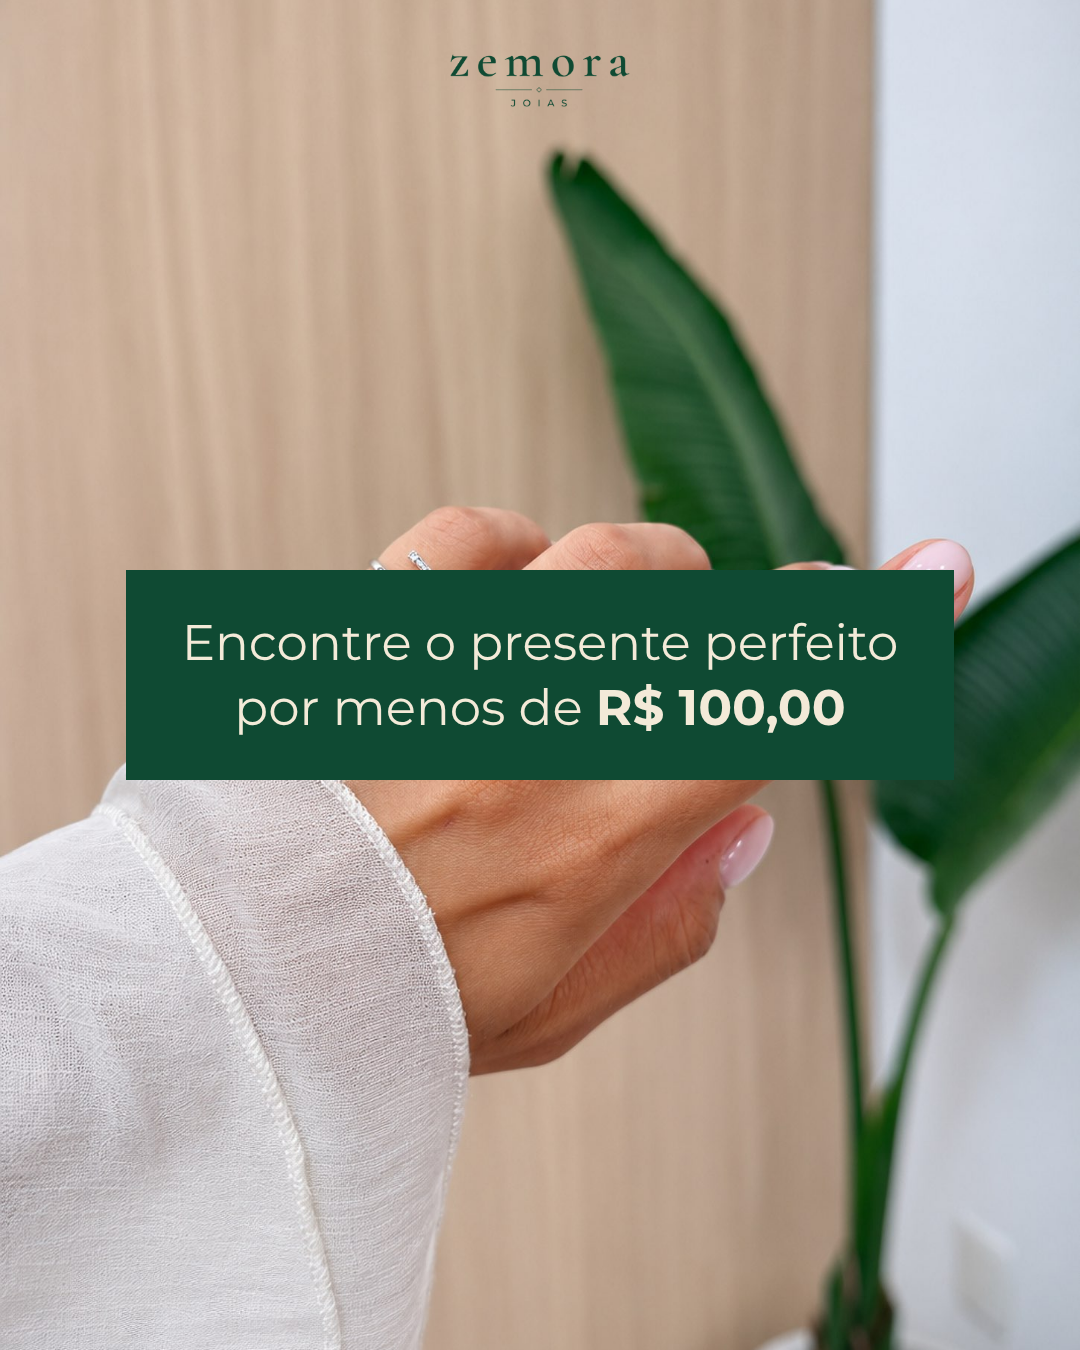
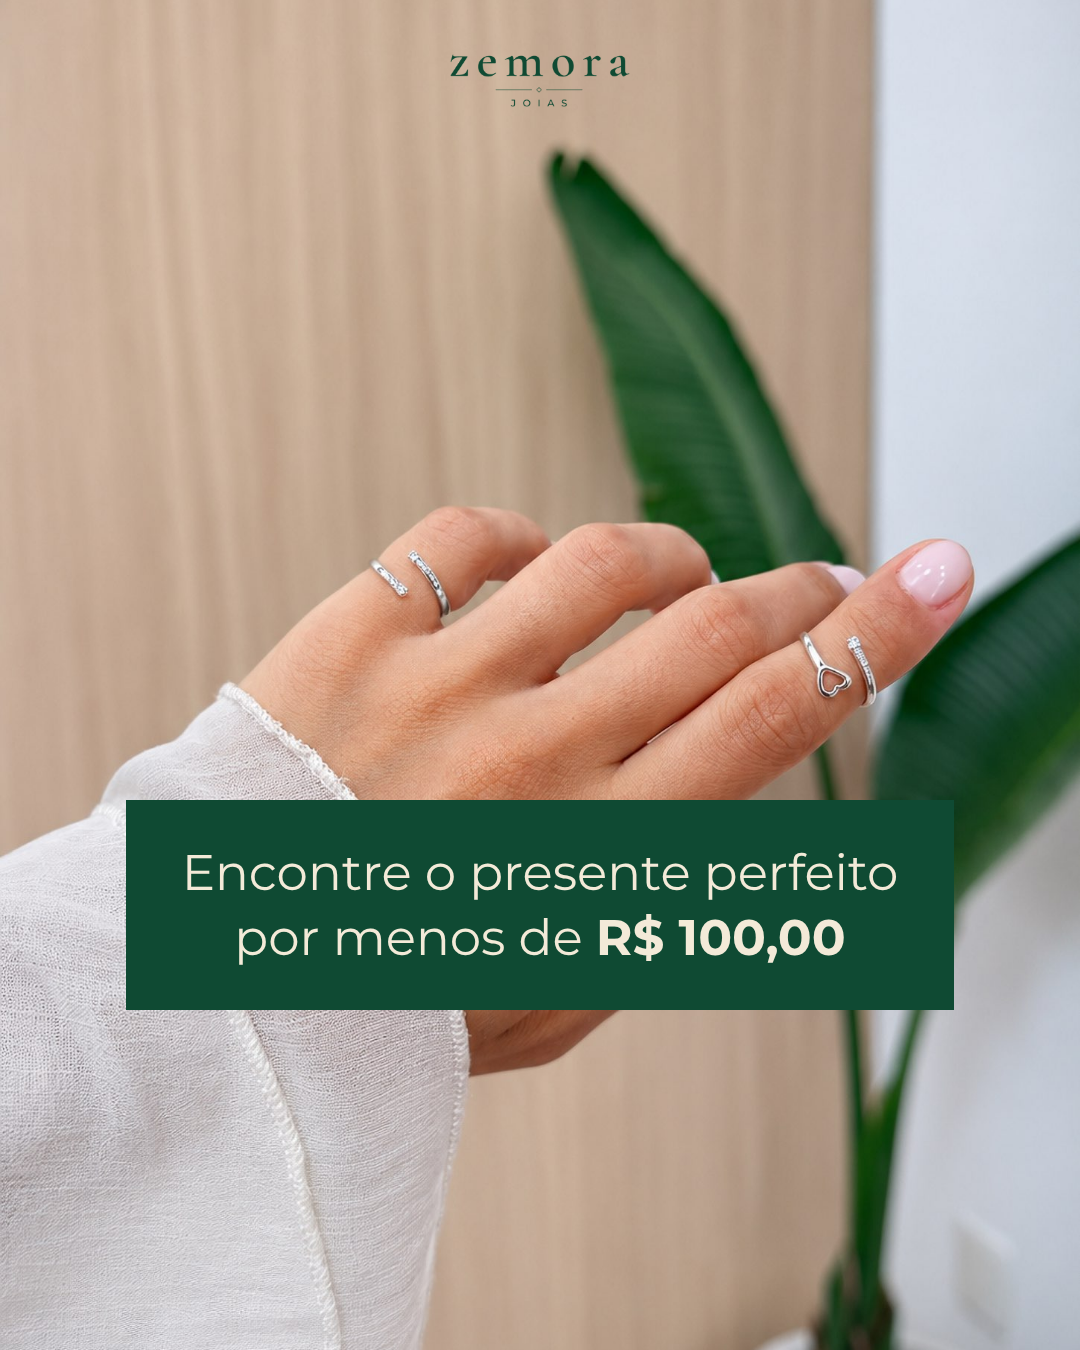
Carrossel de preços: texto da capa mais baixo
Claude-Session: https://claude.ai/code/session_01Ds4o6DPNY229NefAqtX4RB

Changed region(s): [[0.0917, 0.4044, 0.8861, 0.7467]]

diff --git a/cards/render-carrossel.js b/cards/render-carrossel.js
@@ -22,7 +22,7 @@ const sets={dp:[
  {n:5,logo:'logo-zemora-verde.png',foto:'bf6-arvore-pescoco.jpg',pos:'50% 100%',v:'bottom:80px',ts:0,body:`<div class="kick-thin" style="color:#0f4a33">GARANTA A SUA</div><div class="thin-chips">`+chips('Shopee, TikTok Shop, Amazon, Mercado Livre')+`</div>`},
  ],
  precos:[
- {n:1,logo:'logo-zemora-verde.png',foto:'ac-aneis-prata.jpg',pos:'50% 55%',v:'top:50%;transform:translateY(-50%)',ts:0,body:`<div class="midbox">Encontre o presente perfeito<br>por menos de <b>R$ 100,00</b></div>`},
+ {n:1,logo:'logo-zemora-verde.png',foto:'ac-aneis-prata.jpg',pos:'50% 55%',v:'top:800px',ts:0,body:`<div class="midbox">Encontre o presente perfeito<br>por menos de <b>R$ 100,00</b></div>`},
  {n:2,logo:'logo-zemora-verde.png',foto:'preco-1.jpg',pos:'50% 45%',v:'bottom:110px',ts:0,body:`<span class="price">R$ 42,90</span>`},
  {n:3,logo:'logo-zemora-verde.png',foto:'preco-2.jpg',pos:'50% 50%',v:'bottom:110px',ts:0,body:`<span class="price">R$ 52,90</span>`},
  {n:4,logo:'logo-zemora-verde.png',foto:'preco-3.jpg',pos:'50% 50%',v:'bottom:110px',ts:0,body:`<span class="price">R$ 75,90</span>`},
